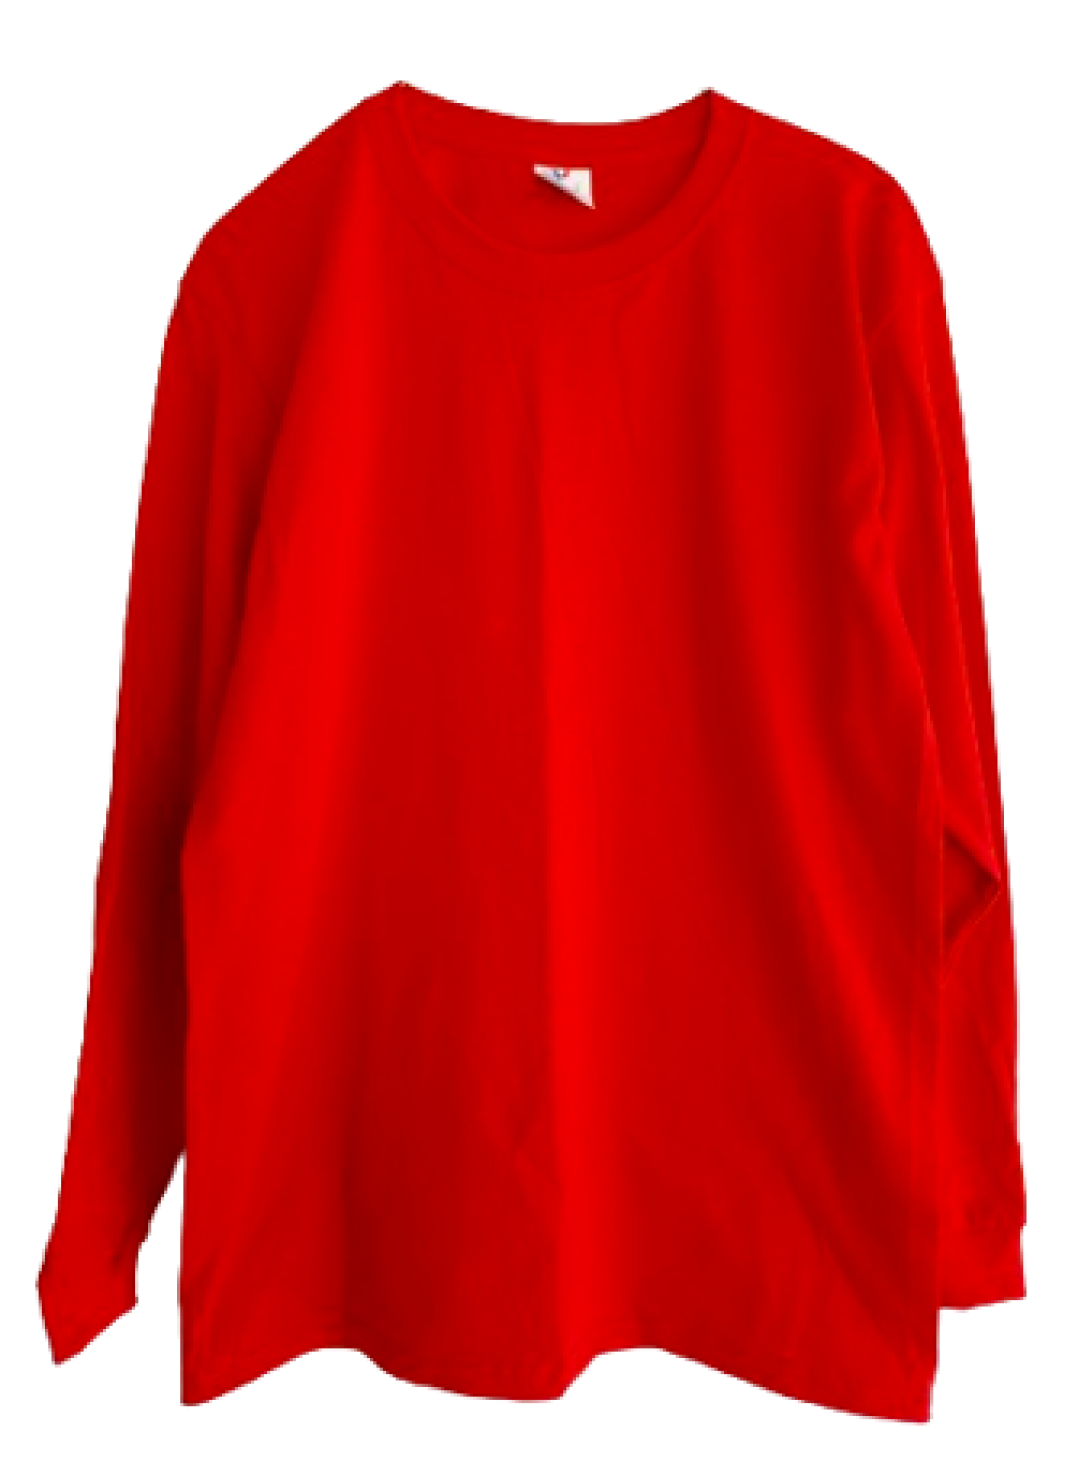
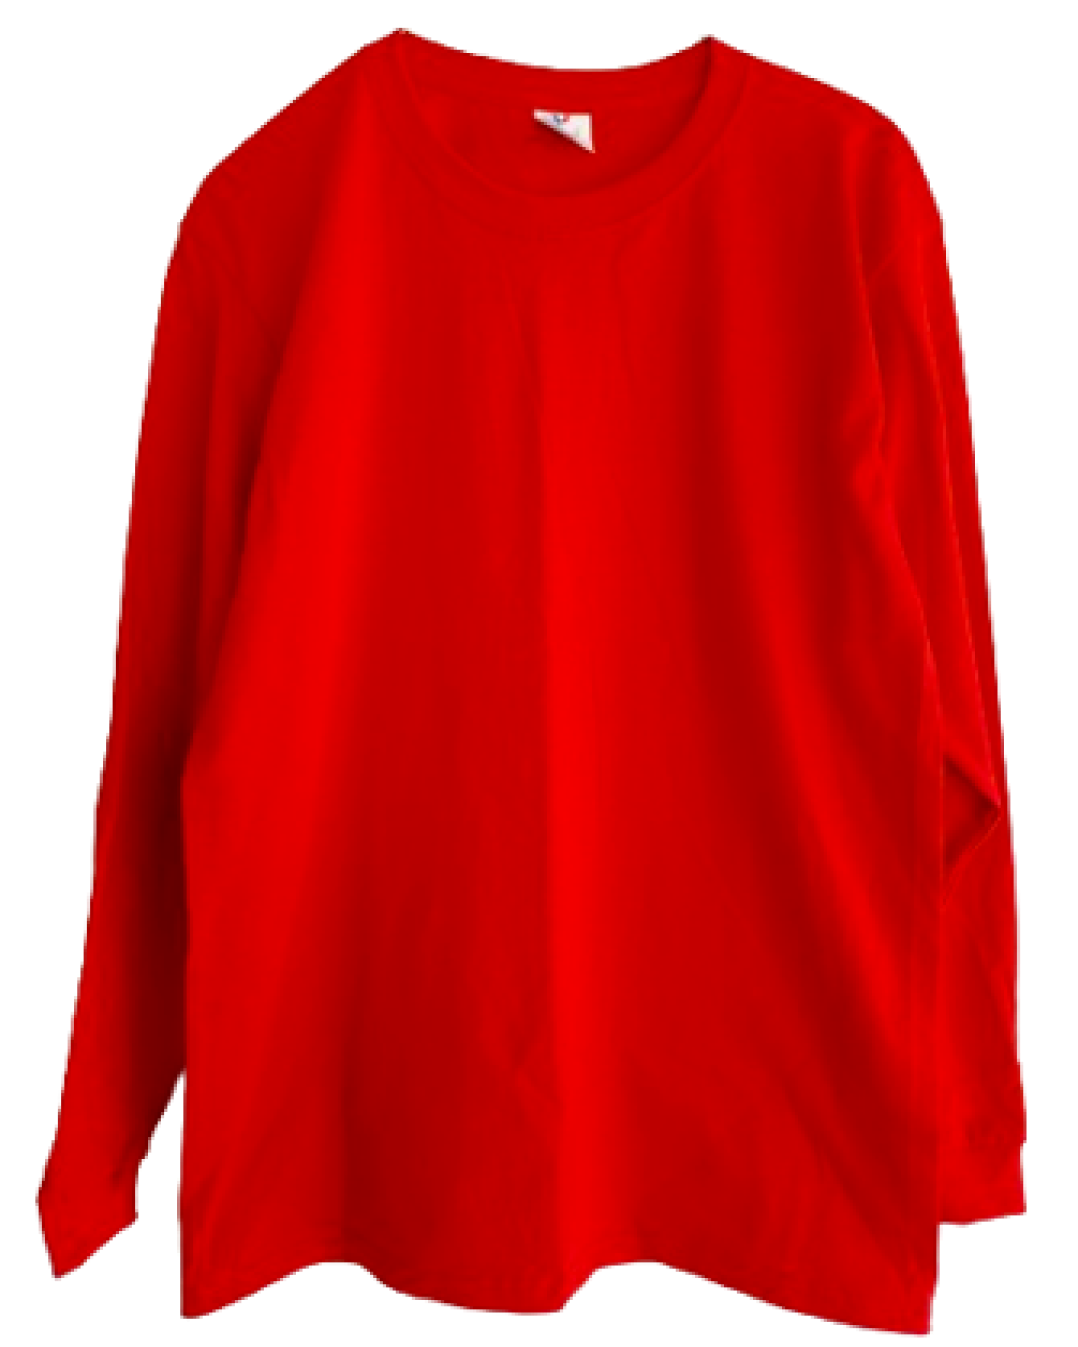
Color change
Now more garment types change of color

diff --git a/controllers/javascript/color-changer.js b/controllers/javascript/color-changer.js
@@ -114,19 +114,19 @@ document.addEventListener("DOMContentLoaded", function() {
         if (garment_change.src == tshirt_source) {
             //color changes
             black_btn.onclick = function() {
-                color_change.src = "images/clothing-colors/hd-blck.png";
+                color_change.src = "images/clothing-colors/ts-blck.png";
             }
         
             red_btn.onclick = function() {
-                color_change.src = "images/clothing-colors/hd-red.png";
+                color_change.src = "images/clothing-colors/ts-red.png";
             }
         
             cherry_btn.onclick = function() {
-                color_change.src = "images/clothing-colors/hd-chr.png";
+                color_change.src = "images/clothing-colors/ts-chr.png";
             }
         
             orange_btn.onclick = function() {
-                color_change.src = "images/clothing-colors/hd-ora.png";
+                color_change.src = "images/clothing-colors/ts-ora.png";
             }
         
             golden_btn.onclick = function() {
@@ -191,20 +191,21 @@ document.addEventListener("DOMContentLoaded", function() {
 
         } else if (garment_change.src == longsleeve_source) {
             //color changes
+
             black_btn.onclick = function() {
-                color_change.src = "images/clothing-colors/hd-blck.png";
+                color_change.src = "images/clothing-colors/lng-blck.png";
             }
         
             red_btn.onclick = function() {
-                color_change.src = "images/clothing-colors/hd-red.png";
+                color_change.src = "images/clothing-colors/lng-red.png";
             }
         
             cherry_btn.onclick = function() {
-                color_change.src = "images/clothing-colors/hd-chr.png";
+                color_change.src = "images/clothing-colors/lng-chr.png";
             }
         
             orange_btn.onclick = function() {
-                color_change.src = "images/clothing-colors/hd-ora.png";
+                color_change.src = "images/clothing-colors/lng-ora.png";
             }
         
             golden_btn.onclick = function() {
@@ -228,7 +229,7 @@ document.addEventListener("DOMContentLoaded", function() {
             }
         
             skyblue_btn.onclick = function() {
-                color_change.src = "images/clothing-colors/hd-sky.png";
+                color_change.src = "images/clothing-colors/lng-sky.png";
             }
         
             blue_btn.onclick = function() {
@@ -422,6 +423,86 @@ document.addEventListener("DOMContentLoaded", function() {
             white_btn.onclick = function() {
                 color_change.src = "images/clothing-colors/hd-white.png";
             }
+
+        } else if (garment_change.src == hoodie_source) {
+            //color changes
+
+            black_btn.onclick = function() {
+                color_change.src = "images/clothing-colors/hd-blck.png";
+            }
+        
+            red_btn.onclick = function() {
+                color_change.src = "images/clothing-colors/hd-red.png";
+            }
+        
+            cherry_btn.onclick = function() {
+                color_change.src = "images/clothing-colors/hd-chr.png";
+            }
+        
+            orange_btn.onclick = function() {
+                color_change.src = "images/clothing-colors/hd-ora.png";
+            }
+        
+            golden_btn.onclick = function() {
+                color_change.src = "images/clothing-colors/hd-gld.png";
+            }
+        
+            yellow_btn.onclick = function() {
+                color_change.src = "images/clothing-colors/hd-yel.png";
+            }
+        
+            lime_btn.onclick = function() {
+                color_change.src = "images/clothing-colors/hd-lime.png";
+            }
+        
+            green_btn.onclick = function() {
+                color_change.src = "images/clothing-colors/hd-grn.png";
+            }
+        
+            dark_green_btn.onclick = function() {
+                color_change.src = "images/clothing-colors/hd-drk-grn.png";
+            }
+        
+            skyblue_btn.onclick = function() {
+                color_change.src = "images/clothing-colors/lng-sky.png";
+            }
+        
+            blue_btn.onclick = function() {
+                color_change.src = "images/clothing-colors/hd-blue.png";
+            }
+        
+            navy_btn.onclick = function() {
+                color_change.src = "images/clothing-colors/hd-navy.png";
+            }
+        
+            purple_btn.onclick = function() {
+                color_change.src = "images/clothing-colors/hd-purp.png";
+            }
+        
+            pink_btn.onclick = function() {
+                color_change.src = "images/clothing-colors/hd-pink.png";
+            }
+        
+            lilac_btn.onclick = function() {
+                color_change.src = "images/clothing-colors/hd-lila.png";
+            }
+        
+            pastel_pink_btn.onclick = function() {
+                color_change.src = "images/clothing-colors/hd-pl-pink.png";
+            }
+        
+            dark_gray_btn.onclick = function() {
+                color_change.src = "images/clothing-colors/hd-drk-gray.png";
+            }
+        
+            gray_btn.onclick = function() {
+                color_change.src = "images/clothing-colors/hd-gray.png";
+            }
+        
+            white_btn.onclick = function() {
+                color_change.src = "images/clothing-colors/hd-white.png";
+            }
+        
         }
     }
 })
